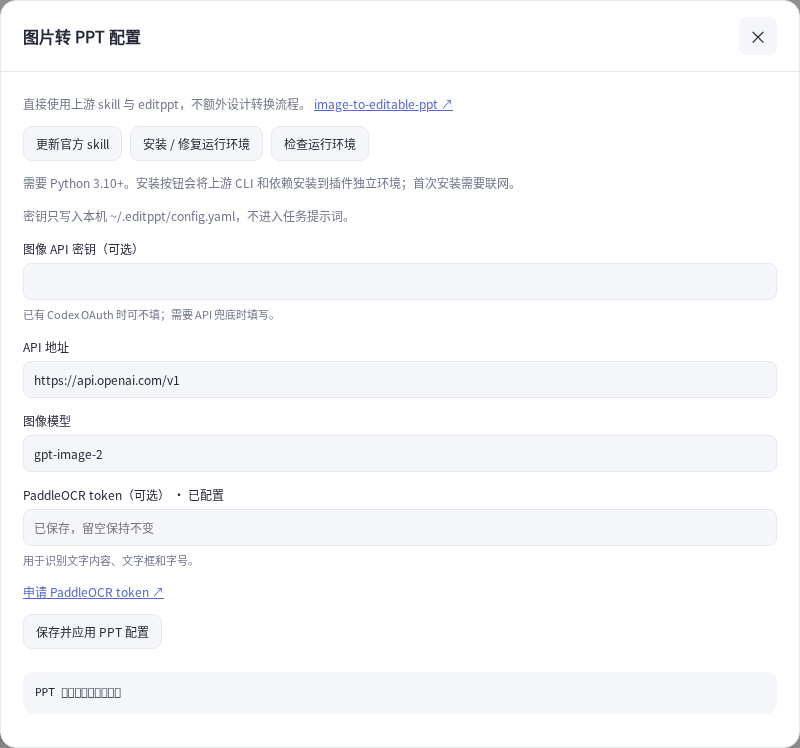
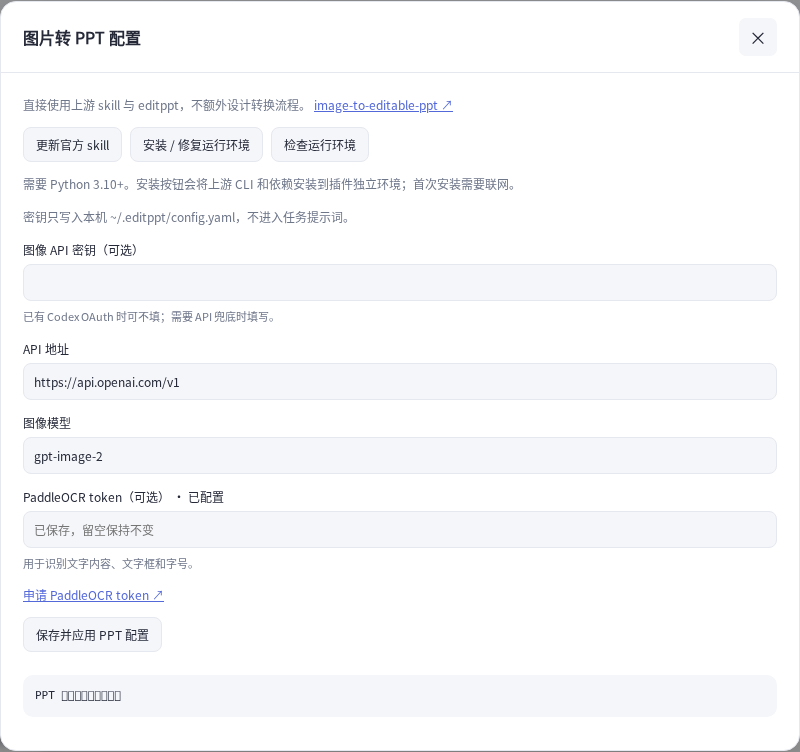
fix: compact PPT workspace and content-sized result cards

diff --git a/src/client/ppt-workspace.module.css b/src/client/ppt-workspace.module.css
@@ -1,109 +1,91 @@
-.workspace { display: grid; grid-template-columns: minmax(260px, 320px) minmax(0, 1fr); width: 100%; height: 100%; min-height: 0; gap: 16px; color: var(--dsw-alias-label-primary); }
+/* A bounded, task-oriented surface. Cards grow with their content. */
+.workspace { display: grid; grid-template-columns: minmax(0, 1.65fr) minmax(280px, 1fr); grid-template-areas: 'intro intro' 'sources options' 'results results'; align-content: start; align-items: start; gap: 18px; width: 100%; max-width: 1180px; height: 100%; min-height: 0; margin: 0 auto; padding: 22px; box-sizing: border-box; overflow: auto; color: var(--dsw-alias-label-primary); background: var(--dsw-alias-bg-layer-2); border-radius: 16px; }
 .workspace[hidden] { display: none; }
-.sidebar, .results { min-width: 0; min-height: 0; overflow: auto; padding: 20px; background: var(--dsw-alias-bg-layer-1); border: 1px solid var(--dsw-alias-border-l2); border-radius: 16px; }
-.sidebar { display: flex; flex-direction: column; gap: 14px; }
+.sidebar { display: contents; }
 .workspace h2, .workspace h3 { margin: 0; font-size: 18px; }
-.workspace h3 { font-size: 15px; }
+.workspace h3 { font-size: 14px; }
 .workspace p, .setup p { margin: 0; font-size: 12px; line-height: 1.7; color: var(--dsw-alias-label-secondary); }
-.eyebrow { display: block; margin-bottom: 10px; font-size: 10px; letter-spacing: .14em; color: var(--dsw-alias-label-secondary); }
-.workspace button, .setup button { padding: 8px 12px; border: 1px solid var(--dsw-alias-border-l2); border-radius: 9px; background: var(--dsw-alias-bg-layer-2); color: inherit; cursor: pointer; font: inherit; font-size: 12px; }
+.intro { grid-area: intro; display: flex; align-items: center; justify-content: space-between; gap: 18px; padding: 0 2px 2px; }
+.intro h2 { margin-bottom: 7px; font-size: 20px; }
+.intro > button { flex: none; }
+.eyebrow { display: block; margin-bottom: 8px; font-size: 10px; letter-spacing: .14em; color: var(--dsw-alias-label-secondary); }
+.sourceSection, .options, .results { min-width: 0; padding: 20px; border: 1px solid var(--dsw-alias-border-l2); border-radius: 14px; background: var(--dsw-alias-bg-layer-1); }
+.sourceSection { grid-area: sources; display: flex; flex-direction: column; gap: 14px; }
+.options { grid-area: options; display: flex; flex-direction: column; gap: 16px; }
+.results { grid-area: results; }
+.workspace button, .setup button { padding: 8px 12px; border: 1px solid var(--dsw-alias-border-l2); border-radius: 8px; background: var(--dsw-alias-bg-layer-2); color: inherit; cursor: pointer; font: inherit; font-size: 12px; }
 .workspace button:disabled, .setup button:disabled { opacity: .45; cursor: default; }
 .workspace button:focus-visible, .setup button:focus-visible, .workspace a:focus-visible { outline: 2px solid var(--dsw-alias-brand-primary); outline-offset: 3px; }
-.workspace .upload { display: flex; flex-direction: column; align-items: center; gap: 8px; padding: 24px 12px; border-style: dashed; }
-.upload > span { font-size: 24px; }
-.upload small, .field small, .ocr small { color: var(--dsw-alias-label-secondary); font-size: 11px; line-height: 1.6; }
-.inputs { display: flex; flex-direction: column; gap: 8px; list-style: none; padding: 0; margin: 0; }
-.inputs li { display: grid; grid-template-columns: 56px minmax(0, 1fr); align-items: center; gap: 8px; padding: 8px; border: 1px solid var(--dsw-alias-border-l2); border-radius: 10px; }
-.inputs img { width: 56px; height: 44px; object-fit: contain; grid-row: span 2; }
-.inputs li > span { overflow: hidden; text-overflow: ellipsis; white-space: nowrap; font-size: 11px; }
-.inputActions { display: flex; gap: 4px; }
-.inputActions button { padding: 2px 8px; }
-.ocr { display: flex; flex-direction: column; gap: 10px; border: 1px solid var(--dsw-alias-border-l2); border-radius: 10px; padding: 12px; font-size: 12px; }
-.ocr label { display: flex; gap: 7px; align-items: center; }
-.ocr input { width: auto; }
-.workspace .primary { background: var(--dsw-alias-brand-primary); color: #fff; border-color: transparent; min-height: 42px; }
-.workspace .error { color: var(--dsw-alias-state-danger-primary, #d44949); white-space: pre-wrap; overflow-wrap: anywhere; }
-.resultHeader { display: flex; gap: 12px; align-items: center; justify-content: space-between; margin-bottom: 16px; }
-.resultHeader > span { font-size: 12px; color: var(--dsw-alias-label-secondary); }
-.empty { min-height: 360px; display: flex; flex-direction: column; align-items: center; justify-content: center; gap: 14px; text-align: center; }
-.fileIcon { display: inline-grid; place-items: center; width: 72px; height: 80px; border: 1px solid var(--dsw-alias-border-l2); background: var(--dsw-alias-bg-layer-2); color: var(--dsw-alias-brand-primary); border-radius: 12px; font-size: 14px; font-weight: 600; }
-.taskTabs { display: flex; gap: 8px; overflow-x: auto; margin-bottom: 20px; padding: 4px; }
-.taskTabs button { flex: none; }
-.taskTabs button[data-active] { border-color: var(--dsw-alias-brand-primary); }
-.sourceStrip { display: flex; gap: 8px; overflow-x: auto; margin: 16px 0; }
-.sourceStrip img { width: 100px; height: 72px; object-fit: contain; border: 1px solid var(--dsw-alias-border-l2); border-radius: 8px; }
-.outputs { display: grid; grid-template-columns: repeat(auto-fit, minmax(180px, 1fr)); gap: 12px; margin-top: 20px; }
-.outputs article { display: flex; flex-direction: column; align-items: flex-start; gap: 12px; padding: 16px; border: 1px solid var(--dsw-alias-border-l2); border-radius: 12px; min-width: 0; }
-.outputs img { width: 100%; max-height: 250px; object-fit: contain; }
-.outputs strong { font-size: 12px; overflow-wrap: anywhere; }
+.sourceHeading { display: flex; justify-content: space-between; align-items: center; font-size: 13px; }
+.sourceHeading > span { color: var(--dsw-alias-label-secondary); font-size: 11px; }
+.sourceHint { font-size: 11px; line-height: 1.6; color: var(--dsw-alias-label-secondary); }
+.workspace .upload { display: flex; min-height: 154px; flex-direction: column; align-items: center; justify-content: center; gap: 8px; padding: 20px 12px; border-style: dashed; }
+.upload > span { font-size: 26px; }
+.upload small, .field small, .ocr small { color: var(--dsw-alias-label-secondary); font-size: 11px; line-height: 1.7; }
+.inputs { display: grid; grid-template-columns: repeat(auto-fill, minmax(125px, 1fr)); gap: 10px; max-height: 330px; overflow: auto; list-style: none; padding: 0; margin: 0; }
+.inputs li { position: relative; display: flex; flex-direction: column; gap: 6px; padding: 7px; min-width: 0; border: 1px solid var(--dsw-alias-border-l2); border-radius: 9px; }
+.inputs .thumbnail { display: block; width: 100%; padding: 0; border: none; border-radius: 5px; background: var(--dsw-alias-bg-layer-2); overflow: hidden; }
+.thumbnail img { display: block; width: 100%; height: 88px; object-fit: contain; }
+.slideNumber { position: absolute; top: 11px; left: 11px; display: grid; place-items: center; width: 20px; height: 20px; border-radius: 6px; background: rgb(15 18 24 / 75%); color: #fff; font-size: 10px; }
+.inputName { display: block; overflow: hidden; text-overflow: ellipsis; white-space: nowrap; font-size: 10px; }
+.inputActions { display: flex; width: 100%; justify-content: space-between; gap: 4px; }
+.inputActions button { padding: 2px 9px; background: transparent; border-color: transparent; }
+.inputs .addTile { min-height: 150px; padding: 0; border-style: dashed; }
+.addTile > button { display: flex; flex: 1; width: 100%; min-height: 150px; flex-direction: column; justify-content: center; align-items: center; gap: 7px; border: none; background: transparent; }
+.addTile > button span { font-size: 26px; }
+.addTile small { font-size: 11px; }
+.ocr { display: flex; flex-direction: column; gap: 12px; padding: 0; margin: 0; border: none; font-size: 12px; }
+.ocr legend { margin-bottom: 14px; padding: 0; font-size: 13px; font-weight: 600; }
+.ocr label { display: flex; align-items: center; gap: 7px; }
+.ocr input { width: auto; margin: 0; }
+.submitBar { display: flex; flex-direction: column; gap: 10px; padding-top: 14px; border-top: 1px solid var(--dsw-alias-border-l2); }
+.submitBar small { font-size: 10px; line-height: 1.7; color: var(--dsw-alias-label-secondary); }
+.workspace .primary { min-height: 42px; border-color: transparent; color: #fff; background: var(--dsw-alias-brand-primary); }
+.workspace .error { color: var(--dsw-alias-state-danger-primary, #b33535); white-space: pre-wrap; overflow-wrap: anywhere; }
+.resultHeader { display: flex; align-items: center; justify-content: space-between; gap: 12px; margin-bottom: 14px; }
+.resultHeader > span { color: var(--dsw-alias-label-secondary); font-size: 11px; }
+.empty { display: flex; min-height: 130px; flex-direction: column; align-items: center; justify-content: center; gap: 10px; text-align: center; }
+.empty > .fileIcon { width: 42px; height: 48px; font-size: 10px; }
+.fileIcon { display: inline-grid; flex: none; place-items: center; width: 64px; height: 72px; border: 1px solid var(--dsw-alias-border-l2); border-radius: 10px; background: var(--dsw-alias-bg-layer-2); color: var(--dsw-alias-brand-primary); font-size: 13px; font-weight: 600; }
+.taskPicker { display: flex; align-items: center; gap: 12px; max-width: 520px; margin: 0 0 18px; color: var(--dsw-alias-label-secondary); font-size: 12px; }
+.taskPicker select { flex: 1; min-width: 0; padding: 7px 10px; border: 1px solid var(--dsw-alias-border-l2); border-radius: 8px; color: var(--dsw-alias-label-primary); background: var(--dsw-alias-bg-layer-2); font: inherit; }
+.resultActions { display: flex; flex-wrap: wrap; gap: 8px; margin: 14px 0 0; }
+.workspace .failure { padding: 12px 14px; border: 1px solid rgb(208 64 64 / 20%); border-radius: 9px; color: var(--dsw-alias-state-danger-primary, #b33535); background: rgb(208 64 64 / 5%); white-space: pre-wrap; overflow-wrap: anywhere; }
+.workspace .progress { white-space: pre-wrap; overflow-wrap: anywhere; }
+.outputs { display: flex; flex-direction: column; gap: 12px; margin-top: 16px; }
+.outputs .deckCard { display: grid; grid-template-columns: 64px minmax(0, 1fr) auto; align-items: center; gap: 10px 16px; min-width: 0; padding: 16px; border: 1px solid var(--dsw-alias-border-l2); border-radius: 10px; }
+.deckCard > .fileIcon { grid-row: span 2; }
+.deckCard > strong { overflow-wrap: anywhere; font-size: 14px; }
+.deckActions { display: flex; align-items: center; gap: 14px; }
+.deckCard > small { grid-column: 2 / -1; color: var(--dsw-alias-label-secondary); font-size: 11px; line-height: 1.7; }
 .setup { display: flex; flex-direction: column; gap: 12px; }
 .setup a, .workspace a { color: var(--dsw-alias-brand-primary); font-size: 12px; }
 .setup form { display: flex; flex-direction: column; gap: 14px; }
 .actions { display: flex; flex-wrap: wrap; gap: 8px; }
 .field { display: flex; flex-direction: column; gap: 6px; font-size: 12px; }
-.field input, .field select { width: 100%; box-sizing: border-box; padding: 9px 10px; color: inherit; background: var(--dsw-alias-bg-layer-2); border: 1px solid var(--dsw-alias-border-l2); border-radius: 8px; font: inherit; }
-.message { max-height: 240px; overflow: auto; padding: 12px; font-size: 11px; line-height: 1.6; white-space: pre-wrap; overflow-wrap: anywhere; background: var(--dsw-alias-bg-layer-2); border-radius: 10px; }
-@media (max-width: 760px) { .workspace { display: flex; flex-direction: column; height: auto; overflow: auto; } .sidebar, .results { overflow: visible; flex: none; padding: 16px; } .results { min-height: 360px; } }
-/* Compact source board: the first image replaces the empty upload hero. */
-.sidebar { padding: 18px; gap: 18px; }
-.eyebrow { margin-bottom: 6px; }
-.sidebar header h2 { margin-bottom: 6px; font-size: 17px; }
-.sourceSection { display: flex; flex-direction: column; gap: 10px; }
-.sourceHeading { display: flex; justify-content: space-between; align-items: center; font-size: 12px; }
-.sourceHeading > span { color: var(--dsw-alias-label-secondary); font-size: 11px; }
-.sourceHint { font-size: 11px; line-height: 1.6; color: var(--dsw-alias-label-secondary); }
-.inputs { display: grid; grid-template-columns: repeat(2, minmax(0, 1fr)); gap: 10px; }
-.inputs li { position: relative; display: flex; flex-direction: column; gap: 6px; padding: 7px; min-width: 0; }
-.inputs .thumbnail { display: block; width: 100%; border: none; border-radius: 6px; background: var(--dsw-alias-bg-layer-2); padding: 0; overflow: hidden; }
-.inputs .thumbnail img { display: block; width: 100%; height: 86px; object-fit: contain; }
-.slideNumber { position: absolute; top: 11px; left: 11px; display: grid; place-items: center; width: 20px; height: 20px; border-radius: 6px; background: rgb(15 18 24 / 75%); color: white; font-size: 10px; }
-.inputs .inputName { display: block; width: 100%; font-size: 10px; overflow: hidden; text-overflow: ellipsis; white-space: nowrap; }
-.inputActions { width: 100%; justify-content: space-between; }
-.inputActions button { padding: 2px 9px; background: transparent; border-color: transparent; }
-.inputs .addTile { border-style: dashed; padding: 0; min-height: 144px; }
-.addTile > button { width: 100%; height: 100%; flex: 1; display: flex; flex-direction: column; gap: 8px; align-items: center; justify-content: center; border: none; background: transparent; }
-.addTile > button span { font-size: 24px; }
-.addTile small { font-size: 11px; }
-.submitBar { display: flex; flex-direction: column; gap: 8px; margin-top: auto; padding-top: 12px; border-top: 1px solid var(--dsw-alias-border-l2); }
-.submitBar small { font-size: 10px; line-height: 1.7; color: var(--dsw-alias-label-secondary); }
-.taskPicker { display: flex; align-items: center; gap: 12px; padding-bottom: 18px; margin-bottom: 18px; border-bottom: 1px solid var(--dsw-alias-border-l2); font-size: 12px; color: var(--dsw-alias-label-secondary); }
-.taskPicker select { flex: 1; min-width: 0; padding: 8px 10px; border: 1px solid var(--dsw-alias-border-l2); border-radius: 8px; background: var(--dsw-alias-bg-layer-2); color: var(--dsw-alias-label-primary); font: inherit; }
-.resultActions { display: flex; flex-wrap: wrap; gap: 8px; margin: 16px 0; }
-.workspace .failure { padding: 14px 16px; border: 1px solid rgb(208 64 64 / 20%); border-radius: 10px; color: var(--dsw-alias-state-danger-primary, #b33535); background: rgb(208 64 64 / 5%); white-space: pre-wrap; overflow-wrap: anywhere; }
-.workspace .progress { white-space: pre-wrap; overflow-wrap: anywhere; }
+.field input, .field select { width: 100%; box-sizing: border-box; padding: 9px 10px; border: 1px solid var(--dsw-alias-border-l2); border-radius: 8px; color: inherit; background: var(--dsw-alias-bg-layer-2); font: inherit; }
+.message { max-height: 240px; overflow: auto; padding: 12px; border-radius: 10px; background: var(--dsw-alias-bg-layer-2); font-size: 11px; line-height: 1.6; white-space: pre-wrap; overflow-wrap: anywhere; }
 .overlay { position: fixed; inset: 0; z-index: 1600; display: flex; align-items: center; justify-content: center; padding: 24px; background: rgb(0 0 0 / 40%); backdrop-filter: blur(5px); }
-.dialog { display: flex; flex-direction: column; width: min(800px, 100%); max-height: min(90vh, 900px); background: var(--dsw-alias-bg-layer-1); color: var(--dsw-alias-label-primary); border: 1px solid var(--dsw-alias-border-l2); border-radius: 16px; box-shadow: 0 24px 80px rgb(0 0 0 / 25%); }
-.dialog > header { display: flex; justify-content: space-between; align-items: center; gap: 14px; padding: 16px 22px; border-bottom: 1px solid var(--dsw-alias-border-l2); }
+.dialog { display: flex; flex-direction: column; width: min(800px, 100%); max-height: min(90vh, 900px); border: 1px solid var(--dsw-alias-border-l2); border-radius: 16px; color: var(--dsw-alias-label-primary); background: var(--dsw-alias-bg-layer-1); box-shadow: 0 24px 80px rgb(0 0 0 / 25%); }
+.dialog > header { display: flex; align-items: center; justify-content: space-between; gap: 14px; padding: 16px 22px; border-bottom: 1px solid var(--dsw-alias-border-l2); }
 .dialog h3 { margin: 0; font-size: 16px; }
-.dialog > header button { flex: none; border: none; border-radius: 7px; padding: 6px 10px; background: var(--dsw-alias-bg-layer-2); color: inherit; font: inherit; font-size: 18px; cursor: pointer; }
+.dialog > header button { flex: none; padding: 6px 10px; border: none; border-radius: 7px; color: inherit; background: var(--dsw-alias-bg-layer-2); font: inherit; font-size: 18px; cursor: pointer; }
 .dialogBody { overflow: auto; padding: 22px; }
 .sourcePreview { display: block; width: 100%; max-height: 70vh; object-fit: contain; }
-@media (max-width: 760px) { .overlay { padding: 12px; } .dialog { max-height: 94vh; } .dialogBody { padding: 16px; } .inputs { grid-template-columns: repeat(3, minmax(0, 1fr)); } .sidebar { gap: 14px; } }
-@media (max-width: 400px) { .inputs { grid-template-columns: repeat(2, minmax(0, 1fr)); } }
-/* Keep actions visible while only the source board scrolls on desktop. */
-@media (min-width: 761px) and (min-height: 601px) {
-  .sidebar { overflow: hidden; }
-  .sidebar > header, .sidebar > .ocr, .submitBar { flex: none; }
-  .sourceSection { flex: 1; min-height: 130px; overflow: auto; padding-right: 2px; }
-  .submitBar { margin-top: 0; }
-  .sidebar > .error { flex: none; max-height: 64px; overflow: auto; }
-}
-@media (max-height: 600px) and (min-width: 761px) {
-  .sidebar { overflow: auto; }
-  .sourceSection { flex: none; }
-  .submitBar { position: sticky; bottom: -18px; background: var(--dsw-alias-bg-layer-1); }
-}
-.inputs { flex: none; }
-.inputs .addTile { grid-column: 1 / -1; min-height: 38px; height: 38px; }
-.addTile > button { flex: none; flex-direction: row; min-height: 38px; height: 38px; padding: 4px 8px; }
-.addTile > button span { font-size: 20px; }
-
-.outputs { display: flex; flex-direction: column; }
-.outputs .deckCard { display: grid; grid-template-columns: 72px minmax(0, 1fr) auto; align-items: center; gap: 10px 16px; }
-.deckCard > .fileIcon { grid-row: span 2; }
-.outputs .deckCard > strong { font-size: 14px; }
-.deckActions { display: flex; align-items: center; gap: 14px; }
-.deckCard > small { grid-column: 2 / -1; color: var(--dsw-alias-label-secondary); font-size: 11px; line-height: 1.7; }
-@media (max-width: 760px) { .outputs .deckCard { grid-template-columns: 52px minmax(0, 1fr); gap: 12px; } .deckCard > .fileIcon { width: 52px; height: 64px; grid-row: span 2; } .deckActions { grid-column: 2; } .deckCard > small { grid-column: 1 / -1; } }
 .diagnosticHint { margin: 0 0 12px; color: var(--dsw-alias-label-secondary); font-size: 12px; line-height: 1.7; }
 .diagnosticText { width: 100%; box-sizing: border-box; resize: vertical; padding: 12px; border: 1px solid var(--dsw-alias-border-l2); border-radius: 8px; background: var(--dsw-alias-bg-layer-2); color: inherit; font: 12px/1.6 monospace; }
+@media (max-width: 760px) {
+  .workspace { grid-template-columns: minmax(0, 1fr); grid-template-areas: 'intro' 'sources' 'options' 'results'; gap: 12px; padding: 12px; }
+  .intro { align-items: flex-start; gap: 12px; }
+  .intro h2 { font-size: 17px; }
+  .intro p { font-size: 11px; }
+  .sourceSection, .options, .results { padding: 16px; }
+  .inputs { grid-template-columns: repeat(auto-fill, minmax(115px, 1fr)); }
+  .outputs .deckCard { grid-template-columns: 48px minmax(0, 1fr); gap: 12px; }
+  .deckCard > .fileIcon { width: 48px; height: 60px; grid-row: span 2; }
+  .deckActions { grid-column: 2; }
+  .deckCard > small { grid-column: 1 / -1; }
+  .overlay { padding: 12px; }
+  .dialog { max-height: 94vh; }
+  .dialogBody { padding: 16px; }
+}

diff --git a/src/client/PptWorkspace.tsx b/src/client/PptWorkspace.tsx
@@ -119,7 +119,7 @@ export function PptWorkspace({ api, active, importRequest, onImported }: { api: 
   }
   return <div className={css.workspace} hidden={!active} data-ppt-workspace="">
     <aside className={css.sidebar}>
-      <header><span className={css.eyebrow}>IMAGE → PPTX</span><h2>{tt('ppt.title')}</h2><p>{tt('ppt.description')}</p></header>
+      <header className={css.intro}><div><span className={css.eyebrow}>IMAGE → PPTX</span><h2>{tt('ppt.title')}</h2><p>{tt('ppt.description')}</p></div><button type="button" data-ppt-open-settings="" onClick={() => setSettingsOpen(true)}>{tt('ppt.openSettings')}</button></header>
       <section className={css.sourceSection} onDragOver={event => event.preventDefault()} onDrop={event => { event.preventDefault(); if (!busy) accept(Array.from(event.dataTransfer.files)) }}>
         <div className={css.sourceHeading}><strong>{tt('ppt.sources')}</strong><span>{images.length}/12</span></div>
         {images.length === 0 ? <button type="button" className={css.upload} data-ppt-upload-empty="" disabled={uploading || busy} onClick={() => fileInput.current?.click()}>
@@ -139,6 +139,7 @@ export function PptWorkspace({ api, active, importRequest, onImported }: { api: 
         <small className={css.sourceHint}>{tt('ppt.orderHint')}</small>
         <input ref={fileInput} hidden type="file" accept="image/png,image/jpeg,image/webp" multiple onChange={event => { accept(Array.from(event.target.files ?? [])); event.target.value = '' }} />
       </section>
+      <section className={css.options}>
       <fieldset className={css.ocr} disabled={busy}>
         <legend>{tt('ppt.ocrTitle')}</legend>
         <label><input type="radio" name="ppt-ocr" checked={!offline} onChange={() => { ocrChosen.current = true; setOffline(false) }} />{tt('ppt.ocrPaddle')}</label>
@@ -149,10 +150,10 @@ export function PptWorkspace({ api, active, importRequest, onImported }: { api: 
       {!ready ? <p className={css.note}>{catalog?.reason || tt('ppt.setupRequired')}</p> : null}
       <footer className={css.submitBar}>
         <button type="button" className={css.primary} data-ppt-convert="" disabled={!ready || busy || uploading || images.length === 0} onClick={() => { void submit() }}>{tt(busy ? 'ppt.submitting' : 'ppt.convert')}</button>
-        <button type="button" data-ppt-open-settings="" onClick={() => setSettingsOpen(true)}>{tt('ppt.openSettings')}</button>
         <small>{tt('ppt.processingHint')}</small>
       </footer>
       {error ? <p className={css.error} role="alert">{error}</p> : null}
+      </section>
     </aside>
     <main className={css.results}>
       <header className={css.resultHeader}><h3>{tt('ppt.results')}</h3><span>{tt('ppt.resultCount', { count: tasks.length })}</span></header>

diff --git a/scripts/ppt-preview.tsx b/scripts/ppt-preview.tsx
@@ -28,7 +28,7 @@ function Preview() {
     <button onClick={() => {
       task = { id: 'ppt-preview', canvasId: 'ppt', skillId: 'ppt.fromImages', label: 'PPT', tier: 'heavy', status: 'completed', startedAt: Date.now() - 204000, pptImages: assets, stage: '转换完成', output: { nodes: [{ id: 'deck', type: 'file', title: 'editable-deck.pptx', x: 0, y: 0, width: 300, height: 170, metadata: { asset: { ...assets[0], assetId: 'deck.pptx', mime: 'application/vnd.openxmlformats-officedocument.presentationml.presentation', name: 'editable-deck.pptx', url: '/deck.pptx' } } }, { id: 'preview', type: 'file', title: 'preview.png', x: 0, y: 0, width: 300, height: 170, metadata: { asset: { ...assets[0], name: 'preview.png' } } }], connections: [], warnings: [] } }
     }}>示例完成</button>
-    <button onClick={() => { if (task) task = { ...task, status: 'failed', error: 'Model API returned 401', agentSessionId: 'skillagent-preview', runDirectory: '/example/ppt/run' } }}>示例失败</button>
+    <button onClick={() => { if (task) task = { ...task, status: 'failed', outputs: [], error: 'Model API returned 401', agentSessionId: 'skillagent-preview', runDirectory: '/example/ppt/run' } }}>示例失败</button>
     <button onClick={() => { task = undefined }}>清空示例</button>
   </header>{setup ? <main className="settings"><h2>图片转可编辑 PPT 配置</h2><PptSetup /></main> : <main><PptWorkspace api={api} active importRequest={importRequest} onImported={() => setImport(undefined)} /></main>}</div>
 }

diff --git a/docs/releases/v1.9.1.md b/docs/releases/v1.9.1.md
@@ -4,7 +4,7 @@
 - 接收上游 skill 自己 final 目录里的最终 PPTX：只接受完成记录和通过的校验报告，继续检查 PPTX 结构与页数；不把中间页文件作为成功结果。
 - 「PPT 配置」改为当前页面直接打开的弹窗，复用生图配置里的同一组字段，不再依赖宿主设置按钮的 DOM 查找。支持 Escape、焦点约束和返回原按钮。
 - 上传后移除大上传区域，改为缩略图网格与「＋」卡片，支持点击预览、移动顺序和删除。
-- 优化操作区与结果区：桌面端图片列表单独滚动，转换记录用下拉选择，失败提示保留换行并提供复用图片、重新转换、检查配置入口。
+- 重新安排布局：居中限宽工作区，上方并排显示图片素材与转换选项，下方整行显示结果；卡片随内容决定高度，避免全屏空白面板。小屏使用单列，图片列表独立滚动；配置入口移至标题右侧，转换记录使用下拉。
 
 - 结果区仅展示最终 PPTX，移除原图、辅助预览图与其他文件卡片；新增 PPT 内容预览和任务诊断入口。预览可查看文字与内嵌图片，复杂版式以 PowerPoint 为准。
 
